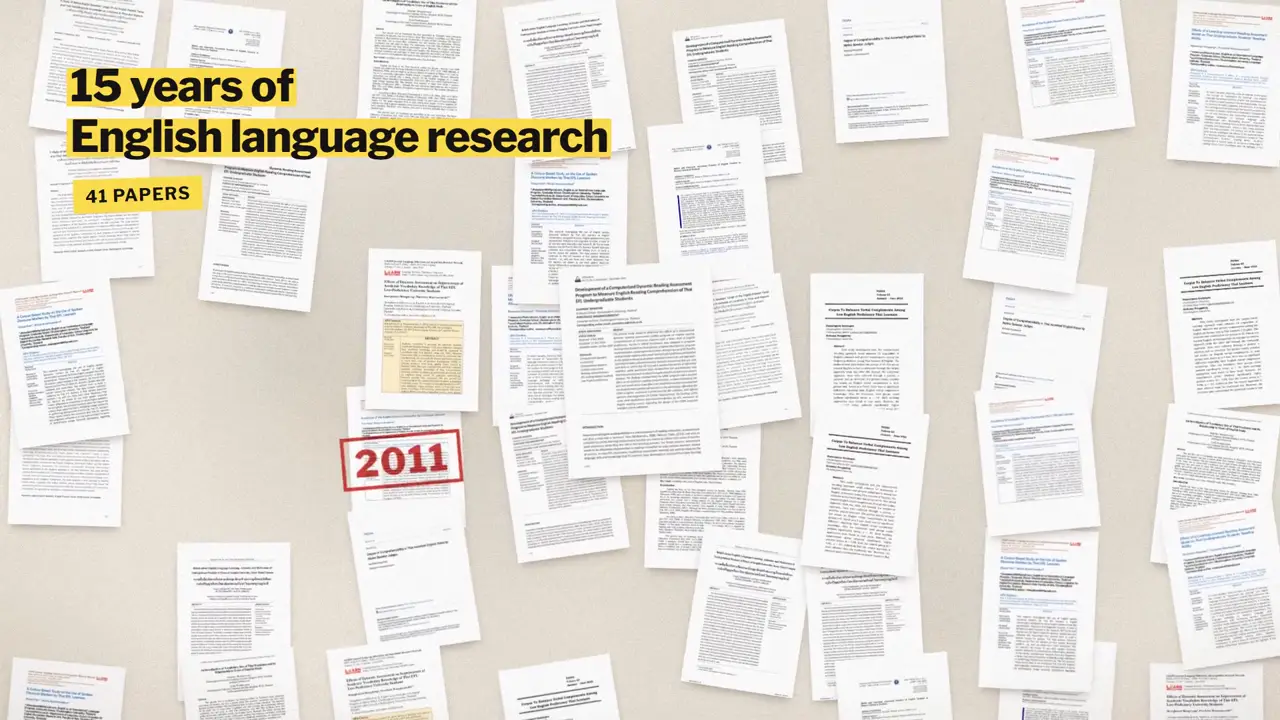
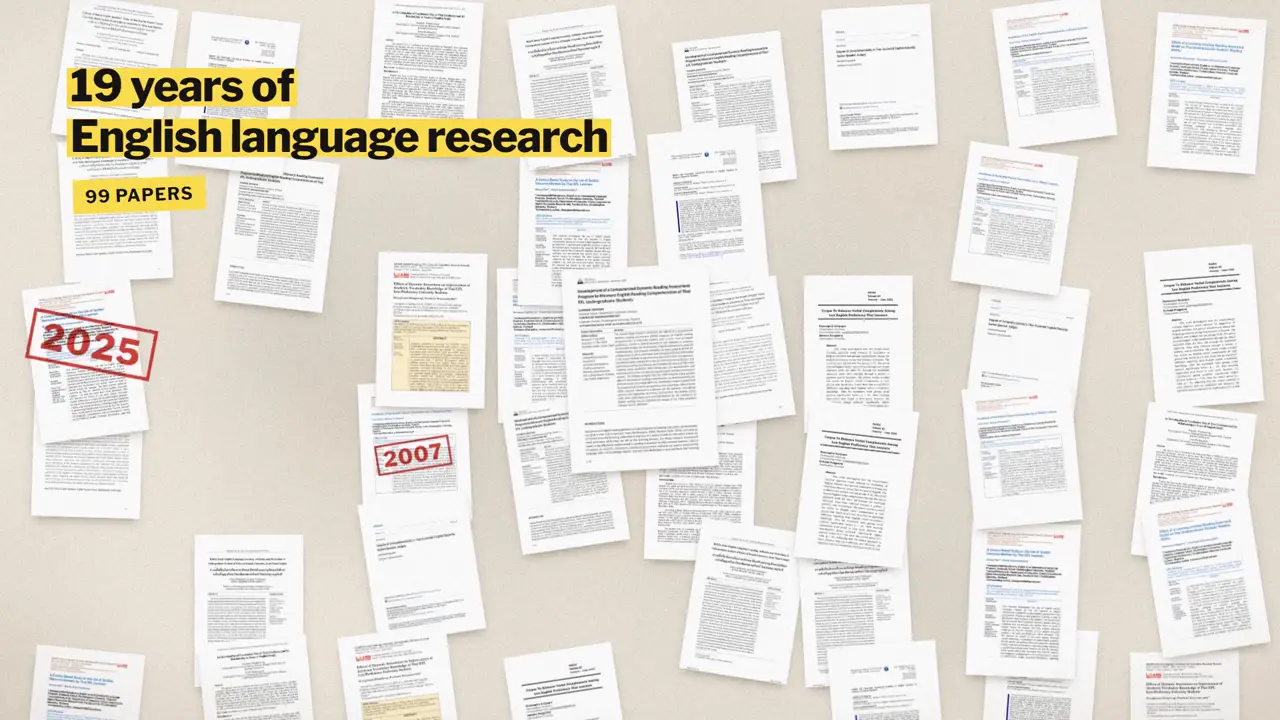
feat(home): the film is now the 99-paper cut
The home page plays https://youtu.be/FsquHUMrtTE, the film rebuilt on all
99 EIL papers (2007-2025). The lead, the player's title and the poster
(the new film's frame at 0:09) follow it; the length stays 1:19.

Changed region(s): [[0.0, 0.0, 1.0, 1.0], [0.2812, 0.0, 0.4688, 0.1833]]

diff --git a/eil-dashboard/src/components/marketing/marketing-content.ts b/eil-dashboard/src/components/marketing/marketing-content.ts
@@ -75,13 +75,14 @@ export const marketingFeatures: MarketingFeature[] = [
 ];
 
 /**
- * The film under the front page's hero (2026-10-29): the 41-paper EIL
- * collection, a question, and the page its answer comes from. It plays from
- * YouTube; the poster is its frame at 0:07, served from this site.
+ * The film under the front page's hero (2026-10-29; the 99-paper cut since
+ * 2026-10-31): the EIL papers, a question, and the page its answer comes
+ * from. It plays from YouTube; the poster is its frame at 0:09, served from
+ * this site.
  */
 export const homeFilm = {
-  youtubeId: "QbjW9ytJqKM",
-  title: "Papertrend: fifteen years of English language research in 79 seconds",
+  youtubeId: "FsquHUMrtTE",
+  title: "Papertrend: nineteen years of English language research in 79 seconds",
   length: "1:19",
   poster: "/marketing/film/poster.webp",
 };

diff --git a/eil-dashboard/src/app/page.tsx b/eil-dashboard/src/app/page.tsx
@@ -108,7 +108,7 @@ export default function LandingPage() {
             <h2 id="film-title" className={sectionTitleClass}>
               See it in 79 seconds.
             </h2>
-            <p className={`mt-4 max-w-2xl ${leadClass}`}>Forty-one papers, fifteen years of English language research, and one question: what changed?</p>
+            <p className={`mt-4 max-w-2xl ${leadClass}`}>Ninety-nine papers, nineteen years of English language research, and one question: what changed?</p>
             <div className="mt-10">
               <FilmPlayer youtubeId={homeFilm.youtubeId} title={homeFilm.title} length={homeFilm.length} poster={homeFilm.poster} />
             </div>

diff --git a/docs/43-home-film.md b/docs/43-home-film.md
@@ -11,8 +11,18 @@ A 60 MB file at about 6 Mbps would stall on a slow connection. Two ways were wei
 
 The user chose YouTube, with the film in a new section under the hero.
 
-- **Video:** https://youtu.be/QbjW9ytJqKM, on the Papertrend channel, with English captions.
-- **Upload:** the user uploaded it. The upload files are in the film folder: the mp4, `pt-papertrail.srt`, and `youtube-thumbnail.jpg`.
+- **Video:** https://youtu.be/FsquHUMrtTE ("Papertrend showcase"), on the Papertrend channel. It replaced the 41-paper cut, https://youtu.be/QbjW9ytJqKM, on 2026-10-31.
+- **Upload:** the user uploaded it. The upload files are in `~/lemo-opuscar/films/pt-papertrail99`: `pt-papertrail99.mp4` and `pt-papertrail99.srt`.
+
+### The 99-paper cut (2026-10-31)
+
+The first cut told the story of a 41-paper sample. Once the EIL repository held all 99 retrievable papers, the film was rebuilt on them, with the same style, score and length (79 s):
+
+- 2007–2025, 19 years.
+- Up to 2018, English for a specific job was 6 of 48 papers; since then, 1 of 46. Scaffolding went from 0 to 5 and formative assessment from 1 to 5.
+- The scaffolding question in chat: five of the six cited studies found students improved. One claim is traced back to its sentence in the paper.
+
+The heading stays "See it in 79 seconds."; the lead now reads "Ninety-nine papers, nineteen years…". The poster is the new film's frame at 0:09 (the pile of papers with "99 papers" and the 2007 and 2025 stamps); at 1280 × 720 no page text can be read.
 
 ## How it is built
 
@@ -20,7 +30,7 @@ The user chose YouTube, with the film in a new section under the hero.
   - Its words and the video's id are in `homeFilm` (`marketing-content.ts`).
   - An empty id hides the section.
 - **Nothing comes from YouTube until the reader presses play** (`FilmPlayer.tsx`):
-  - Until then the page shows a poster from this site: `public/marketing/film/poster.webp`, the film's frame at 0:07, 1280 × 720, 76 KB.
+  - Until then the page shows a poster from this site: `public/marketing/film/poster.webp`, the film's frame at 0:09 (0:07 in the first cut), 1280 × 720, 77 KB.
   - Pressing play swaps the poster for YouTube's privacy-enhanced player, `www.youtube-nocookie.com/embed/<id>?autoplay=1&rel=0&playsinline=1`. It starts at once, and at the end suggests only the channel's own videos.
 - **Security policy:** frame-src adds `https://www.youtube-nocookie.com` and nothing else (`next.config.mjs`).
 - **Privacy policy:** names YouTube as a processor once the film plays, and its cookies in "Cookies and browser storage". The date is now 29 October 2026.
